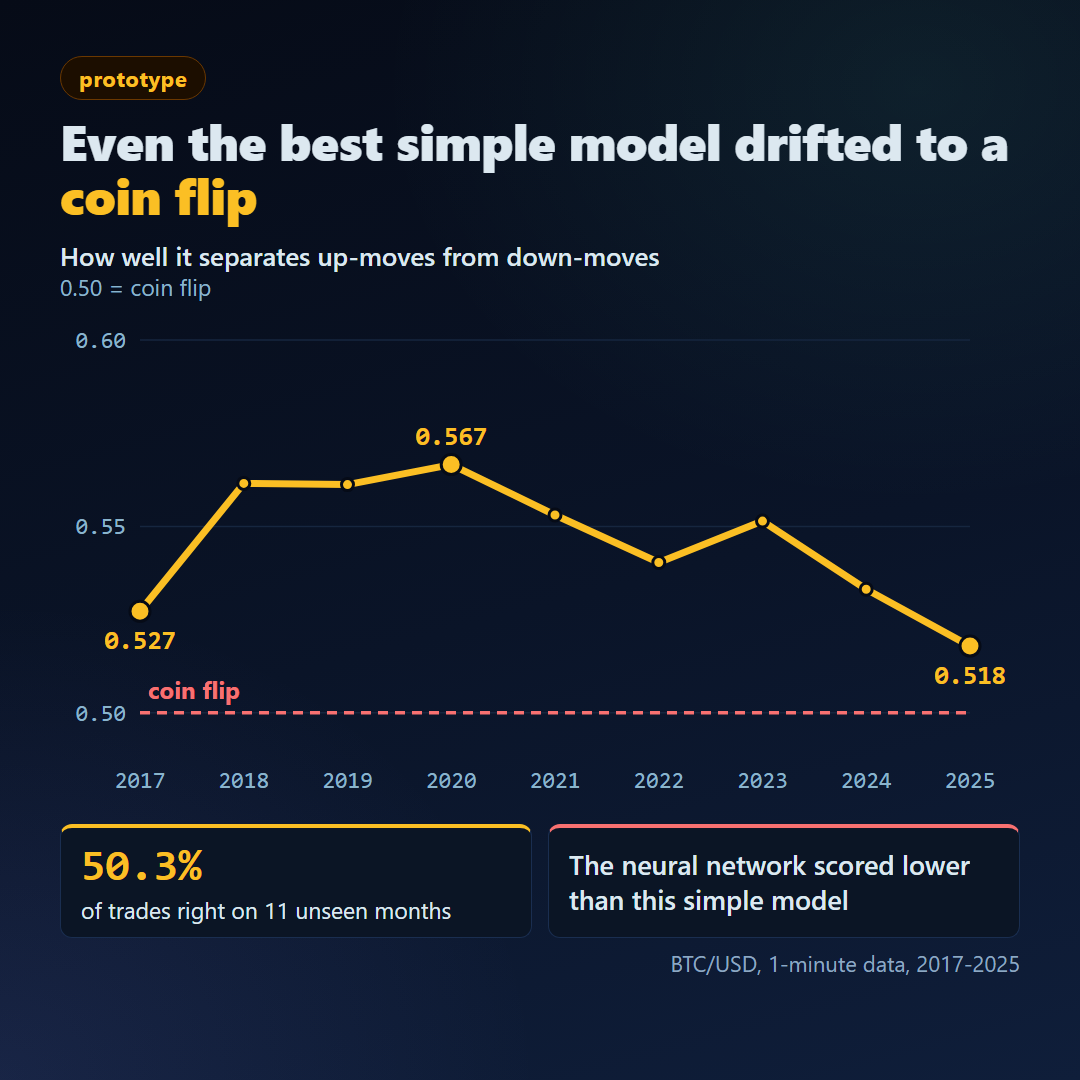
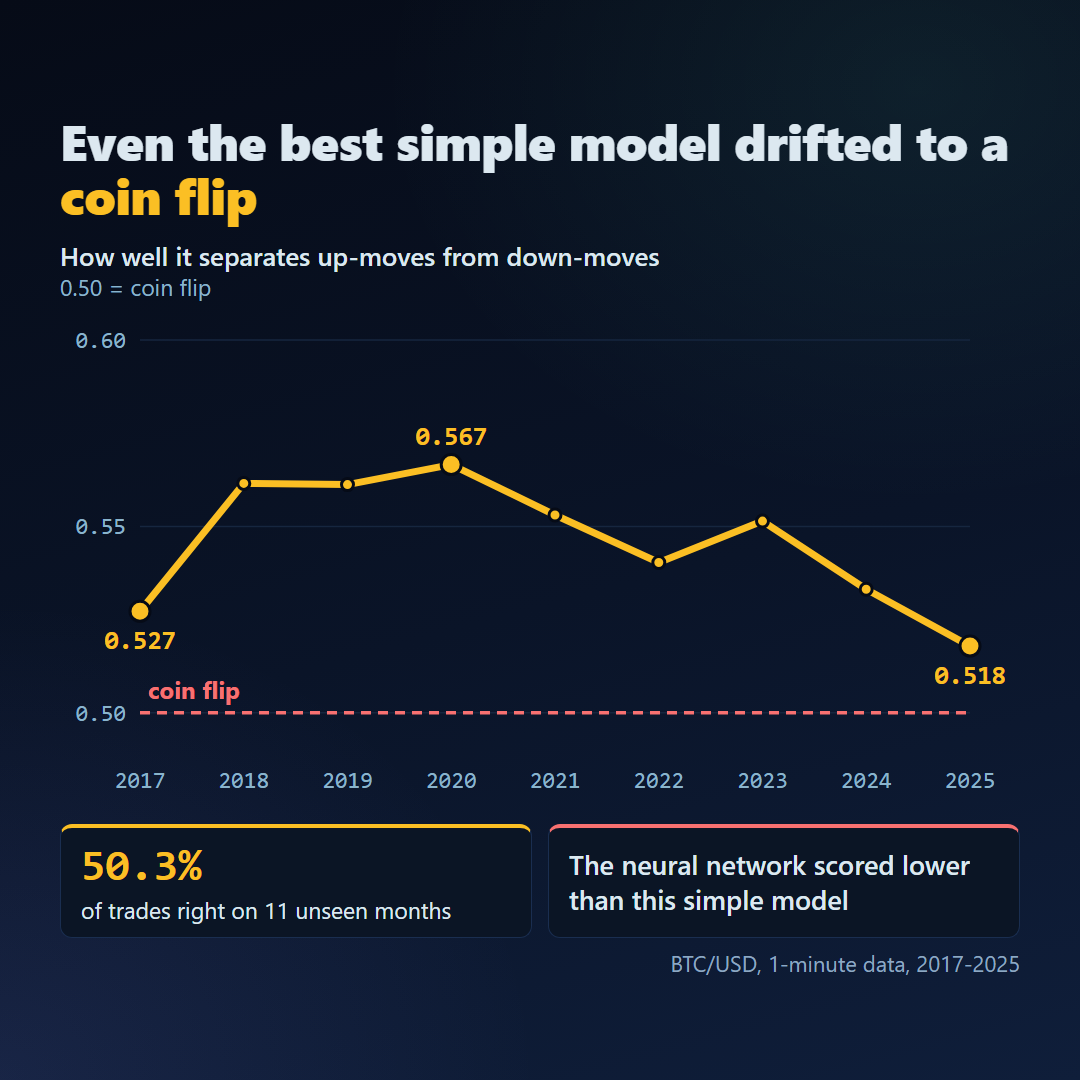
Companion 2: remove prototype chip

Changed region(s): [[0.0306, 0.0306, 0.2139, 0.0917]]

diff --git a/runs/tactical/linkedin/companion/html/companion_2_coin_flip.html b/runs/tactical/linkedin/companion/html/companion_2_coin_flip.html
@@ -22,7 +22,7 @@ h1 em.a{color:#fbbf24}
 .foot{position:absolute;left:60px;right:60px;bottom:34px;display:flex;justify-content:space-between;
   font-family:Consolas, 'Courier New', monospace;font-size:22px;color:#8ea8c2;border-top:1px solid #182135;padding-top:14px}
 svg text{font-family:'Segoe UI', Arial, sans-serif} svg .m{font-family:Consolas, 'Courier New', monospace}
-.slide{height:1350px} .c-h1{font-size:60px;line-height:1.08;font-weight:800;letter-spacing:-.5px;color:#dce8f0} .c-h1 em{font-style:normal;color:#64ffda} .c-h1 em.a{color:#fbbf24}@page{size:1080px 1350px;margin:0}</style></head><body><div class="slide"><div class="top"><span class="chip pr">prototype</span><span class="num"></span></div><div class="c-h1" style="margin-top:26px;font-size:60px">Even the best simple model drifted to a <em class="a">coin flip</em></div><div style="margin-top:24px"><svg width="960" height="760" viewBox="0 0 960 760" xmlns="http://www.w3.org/2000/svg"><defs>
+.slide{height:1350px} .c-h1{font-size:60px;line-height:1.08;font-weight:800;letter-spacing:-.5px;color:#dce8f0} .c-h1 em{font-style:normal;color:#64ffda} .c-h1 em.a{color:#fbbf24}@page{size:1080px 1350px;margin:0}</style></head><body><div class="slide"><div style="height:44px"></div><div class="c-h1" style="margin-top:26px;font-size:60px">Even the best simple model drifted to a <em class="a">coin flip</em></div><div style="margin-top:24px"><svg width="960" height="760" viewBox="0 0 960 760" xmlns="http://www.w3.org/2000/svg"><defs>
 <filter id="glow" x="-50%" y="-50%" width="200%" height="200%"><feGaussianBlur stdDeviation="6"/></filter>
 <filter id="glow2" x="-50%" y="-50%" width="200%" height="200%"><feGaussianBlur stdDeviation="3"/></filter>
 <marker id="ah" viewBox="0 0 10 10" refX="8" refY="5" markerWidth="7" markerHeight="7" orient="auto-start-reverse"><path d="M0,0 L10,5 L0,10 z" fill="#8ab4cc"/></marker>

diff --git a/runs/tactical/linkedin/companion/html/companion_2_coin_flip_square.html b/runs/tactical/linkedin/companion/html/companion_2_coin_flip_square.html
@@ -22,7 +22,7 @@ h1 em.a{color:#fbbf24}
 .foot{position:absolute;left:60px;right:60px;bottom:34px;display:flex;justify-content:space-between;
   font-family:Consolas, 'Courier New', monospace;font-size:22px;color:#8ea8c2;border-top:1px solid #182135;padding-top:14px}
 svg text{font-family:'Segoe UI', Arial, sans-serif} svg .m{font-family:Consolas, 'Courier New', monospace}
-.slide{height:1080px} .c-h1{font-size:60px;line-height:1.08;font-weight:800;letter-spacing:-.5px;color:#dce8f0} .c-h1 em{font-style:normal;color:#64ffda} .c-h1 em.a{color:#fbbf24}@page{size:1080px 1080px;margin:0}</style></head><body><div class="slide"><div class="top"><span class="chip pr">prototype</span><span class="num"></span></div><div class="c-h1" style="margin-top:14px;font-size:50px">Even the best simple model drifted to a <em class="a">coin flip</em></div><div style="margin-top:18px"><svg width="960" height="570" viewBox="0 0 960 570" xmlns="http://www.w3.org/2000/svg"><defs>
+.slide{height:1080px} .c-h1{font-size:60px;line-height:1.08;font-weight:800;letter-spacing:-.5px;color:#dce8f0} .c-h1 em{font-style:normal;color:#64ffda} .c-h1 em.a{color:#fbbf24}@page{size:1080px 1080px;margin:0}</style></head><body><div class="slide"><div style="height:44px"></div><div class="c-h1" style="margin-top:14px;font-size:50px">Even the best simple model drifted to a <em class="a">coin flip</em></div><div style="margin-top:18px"><svg width="960" height="570" viewBox="0 0 960 570" xmlns="http://www.w3.org/2000/svg"><defs>
 <filter id="glow" x="-50%" y="-50%" width="200%" height="200%"><feGaussianBlur stdDeviation="6"/></filter>
 <filter id="glow2" x="-50%" y="-50%" width="200%" height="200%"><feGaussianBlur stdDeviation="3"/></filter>
 <marker id="ah" viewBox="0 0 10 10" refX="8" refY="5" markerWidth="7" markerHeight="7" orient="auto-start-reverse"><path d="M0,0 L10,5 L0,10 z" fill="#8ab4cc"/></marker>

diff --git a/runs/tactical/linkedin/companion/build_companion.py b/runs/tactical/linkedin/companion/build_companion.py
@@ -105,7 +105,7 @@ def image2(H):
     c2 = (f'<div style="flex:1;background:#0b1525;border:1px solid #1a2e50;border-top:4px solid {RED};border-radius:12px;padding:{16 if not sq else 12}px 20px;display:flex;align-items:center">'
           f'<div style="font-size:{31 if not sq else 27}px;font-weight:600;color:{TXT};line-height:1.3">The neural network scored lower than this simple model</div></div>')
     cap = f'<div style="margin-top:{16 if not sq else 10}px;font-size:22px;color:{MUTED2};text-align:right">BTC/USD, 1-minute data, 2017-2025</div>'
-    inner = (topbar()
+    inner = (f'<div style="height:44px"></div>'
              + f'<div class="c-h1" style="margin-top:{14 if sq else 26}px;font-size:{50 if sq else 60}px">Even the best simple model drifted to a <em class="a">coin flip</em></div>'
              + f'<div style="margin-top:{18 if sq else 24}px">{"".join(o)}</div>'
              + f'<div style="display:flex;gap:16px;margin-top:{10 if sq else 24}px">{c1}{c2}</div>' + cap)
